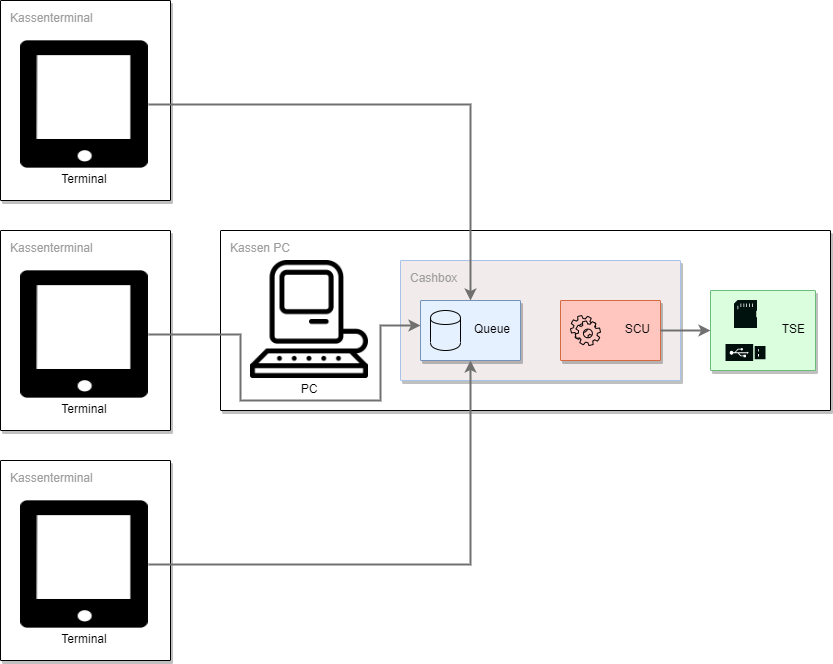
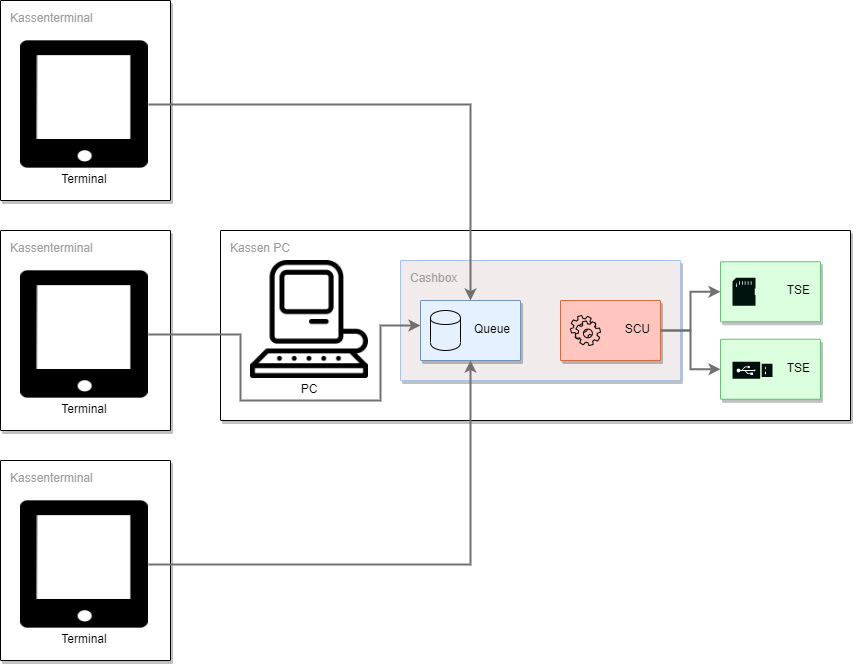
Updated rollout-scenarios

diff --git a/for-posdealers/03-sales/rollout-scenarios.md b/for-posdealers/03-sales/rollout-scenarios.md
@@ -1,42 +1,95 @@
 # Rollout Szenarien, Tipps & Tricks für DE
-Um die fiskaltrust.Middleware in Verbindung mit Kassen und TSEs zu verwenden kommen unterschiedliche Szenarien in Frage. Diese werden weiter unten erläutert, es gibt allerdings einige Grundvoraussetzungen welche auf jeden Fall gegeben sein müssen, unabhängig vom Szenario.
+Um die fiskaltrust.Middleware in Verbindung mit Kassen und TSEs zu verwenden kommen unterschiedliche Szenarien in Frage. Bei jedem dieser Szenarien handelt es sich immer um einen Standort. Diese werden weiter unten erläutert, es gibt allerdings einige Grundvoraussetzungen welche auf jeden Fall gegeben sein müssen, unabhängig vom Szenario.
 
-- Pro POS-System (Standort) muss mindestens eine [SCU](https://github.com/fiskaltrust/productdescription-de-doc/blob/master/product-service-description/compliance-as-a-service/features/SCU-Abstraktion.md) inkl. TSE zugeordnet sein.
-- Für jede Kassa die dem Finanzamt gemeldet werden muss, muss eine Queue zugeordnet sein.
+- Pro POS-System (Standort) muss mindestens eine [SCU](https://github.com/fiskaltrust/productdescription-de-doc/blob/master/product-service-description/compliance-as-a-service/features/SCU-Abstraktion.md) inkl. TSE zugeordnet sein. Die TSE kann entweder eine Hardware TSE vor Ort sein, oder eine zertifizierte Cloud TSE.
+- Jede Kasse welche dem Finanzamt gemeldet werden muss, muss eine Queue zugeordnet sein.
 
-## Hardware TSE
+#### TSE in der Cloud
+Mit einer Cloud TSE können diverse Komponenten der TSE in einem Rechenzentrum betrieben werden. Ist die TSE nicht mehr erreichbar, wechselt die fiskaltrust.Middleware in den Ausfallsmodus. Bei der Nutzung von Cloud TSEs möchten wir auf die [Fair-Use-Policy]() hinweisen.
 
-Die folgenden Szenarien erfordern jeweils mindestens eine Hardware TSE vor Ort.
+#### Hardware-TSE
+Wird eine Hardware-TSE genutzt, so muss pro Kasse nur eine angeschlossen werden. Entweder per SD-Karte oder am USB-Anschluss.
 
-### TSE pro Kasse
-Das ist das technisch einfachste Szenario, benötigt allerdings auch die maximale Anzahl an TSEs. Technisch ist diese Lösung sehr einfach zu handhaben, da die Exporte der TSE ausschließlich direkt an der Kasse erfolgen.
+## Entscheidungshilfe
+Dieser Leitfaden stellt eine Entscheidungshilfe dar, welches Szenario für welche Gegebenheiten empfohlen wird. Die Fragen werden nachfolgend genauer beschrieben.
 
+#### TSE-Export pro Kasse?
+Ja bedeutet, dass die Exporte der TSE immer ausschließlich direkt an der Kasse erfolgen. Das Exportieren und auch das Löschen der Daten auf der TSE ist hier technisch am einfachsten. Pro Kasse wird also eine TSE verwendet, das ist die maximale Anzahl.
+
+#### Terminals oder Kassen?
+"Terminals" bedeutet, die Eingabegeräte sind Tablets oder ähnliches, das heißt es ist gar nicht möglich hier eine Hardware-TSE anzuschließen bzw. die fiskaltrust.Middleware am Gerät selbst zu installieren. Bei "Kassen" handelt es sich um Geräte an denen die fiskaltrust.Middleware installiert werden kann.
+
+#### Gibt es eine Hauptkasse?
+Ja bedeutet, dass eine der Kassen als Hauptkasse genutzt wird. Die Hauptkasse muss demnach eingeschalten sein damit die anderen Kassen auf die TSE zugreifen können. Bei Nein wird die fiskaltrust.Middleware welche mit der TSE kommuniziert auf einem lokalem PC (Server) installiert.
+
+#### Hardware vor Ort?
+Nein bedeutet, es nicht möglich Hardware (mit Ausnahme der Eingabeterminals) vor Ort zu betreiben.
+
+#### Terminals meldepflichtig?
+Ja bedeutet, dass die Terminals dem Finanzamt gemeldet werden. Ist das der Fall, benötigt jedes Terminal eine eigene fiskaltrust.Queue. 
+
+#### Internetverbindung vorhanden?
+Ja beduetet, dass eine Internetverbindung vor Ort vorhanden ist.
+
+![scenario-decisions](media/scenario-decisions.png)
+
+#### Links zu den Szenarien
+
+- [Hardware-TSE pro Kasse](#Hardware-TSE-pro-Kasse)
+- [Cloud-TSE mit Hauptkasse](#Cloud-TSE-mit-Hauptkasse)
+- [Hardware-TSE mit Hauptkasse](#Hardware-TSE-mit-Hauptkasse)
+- [Cloud-TSE mit Server](#Cloud-TSE-mit-Server)
+- [Hardware-TSE mit Server](#Hardware-TSE-mit-Server)
+- [Cloud-TSE mit Terminals](#Cloud-TSE-mit-Terminals)
+- [Hardware-TSE mit Terminals](#Hardware-TSE-mit-Terminals)
+- [Cloud-TSE mit Single-Queue](#Cloud-TSE-mit-Single-Queue)
+- [Hardware-TSE mit Single-Queue](#Hardware-TSE-mit-Single-Queue)
+- [Rechenzentrum als operational environment](#Rechenzentrum-als-operational-environment)
+
+## Hardware-TSE pro Kasse
 ![tse-per-cashregister](media/tse-per-cashregister.png)
 
-### TSE pro Standort
-Es ist auch möglich, für den gesamten Standort nur eine SCU inkl. TSE zu verwenden. An den Kassen sind dennoch CashBoxen installiert, welche allerdings nur eine Queue haben und mit der SCU-CashBox inkl. TSE verbunden sind. Es gibt zwei Möglichkeiten dieses Szenario zu realisieren. Die SCU-CashBox kann auf einer Kasse betrieben werden, oder auf einem separatem Rechner. Wichtig ist, dass sich alle Komponenten am gleichen Standort befinden, im sogenannten "operational environment" (sichere Einsatzumgebung). Bei diesen Szenarien ist darauf zu achten, dass die Exporte aller Kassen zentral auf einer TSE stattfinden und es beim Löschen der Daten zu Probleme führen kann.
+## Cloud-TSE mit Hauptkasse
+An der Hauptkassa wird eine fiskaltrust.CashBox betrieben welche eine fiskaltrust.Queue und die SCU enthält und diese kommuniziert mit der Cloud-TSE. Auf den anderen Kassen sind dennoch fiskaltrust.CashBoxen installiert, welche allerdings nur eine fiskaltrust.Queue haben und mit der SCU verbunden sind. Alle Komponenten (mit Ausnahme von Teilen der Cloud-TSE) befinden sich am gleichen Standort, im sogenannten "operational environment" (sichere Einsatzumgebung).
 
-SCU auf der Kasse|SCU separat
-:--:|:--:
-![tse-on-cashregister](media/tse-on-cashregister.png)|![tse-separated](media/tse-separated.png)
+![cloud-tse-on-cashregister](media/cloud-tse-on-cashregister.png)
 
-### Kassen/Terminals ohne CashBoxen
-Werden die Kassen nur als Eingabeterminals verwendet, so ist es nicht notwendig eine CashBox an der Kasse zu installieren. Das ist auch möglich wenn es keine Kassen gibt, sondern nur Terminals (zum Beispiel Tablets) welches als Eingabeterminals fungieren. Dabei ist zu unterscheiden, ob die Terminals/Kassen dem Finanzamt gemeldet werden oder nicht. Werden sie nicht gemeldet kann alles in eine Queue laufen, ansonsten braucht man für jede Kasse/jedes Terminal eine Queue. 
+## Hardware-TSE mit Hauptkasse
+An der Hauptkassa wird eine fiskaltrust.CashBox betrieben welche eine fiskaltrust.Queue und die SCU enthält und diese kommuniziert mit der TSE. Auf den anderen Kassen sind dennoch fiskaltrust.CashBoxen installiert, welche allerdings nur eine fiskaltrust.Queue haben und mit der SCU verbunden sind. Alle Komponenten befinden sich am gleichen Standort, im sogenannten "operational environment" (sichere Einsatzumgebung). Bei diesem Szenario ist darauf zu achten, dass die Exporte aller Kassen zentral auf einer TSE stattfinden und es beim Export und dem Löschen der Daten zu Problemen führen kann.
 
-Single Queue|Queue pro Terminal
-:--:|:--:
-![terminals-single-queue](media/terminals-single-queue.png)|![terminals-multi-queue](media/terminals-multi-queue.png)
+![tse-on-cashregister](media/tse-on-cashregister.png)
 
-## Cloud TSE
+## Cloud-TSE mit Server
+Am Server wird eine fiskaltrust.CashBox betrieben welche die SCU enthält und diese kommuniziert mit der Cloud-TSE. Auf den Kassen sind dennoch fiskaltrust.CashBoxen installiert, welche allerdings nur eine fiskaltrust.Queue haben und mit der SCU verbunden sind. Alle Komponenten (mit Ausnahme von Teilen der Cloud-TSE) befinden sich am gleichen Standort, im sogenannten "operational environment" (sichere Einsatzumgebung).
 
-Die nachfolgenden Szenarien beschreiben die Verwendung einer zertifizierten Cloud TSE.
+![cloud-tse-separated](media/cloud-tse-separated.png)
 
-### TSE in der Cloud
-Mit einer Cloud-TSE können diverse Komponenten der TSE in einem Rechenzentrum betrieben werden. Es ist hier prinzipiell möglich die CashBoxen, Queues und SCUs so wie in der vorherigen Szenarien abzubilden. Ist die TSE nicht mehr erreichbar, wechselt die fiskaltrust.Middleware in den Ausfallsmodus.
+## Hardware-TSE mit Server
+Am Server wird eine fiskaltrust.CashBox betrieben welche die SCU enthält und diese kommuniziert mit der TSE. Auf den anderen Kassen sind dennoch fiskaltrust.CashBoxen installiert, welche allerdings nur eine fiskaltrust.Queue haben und mit der SCU verbunden sind. Alle Komponenten befinden sich am gleichen Standort, im sogenannten "operational environment" (sichere Einsatzumgebung). Bei diesem Szenario ist darauf zu achten, dass die Exporte aller Kassen zentral auf einer TSE stattfinden und es beim Export und dem Löschen der Daten zu Problemen führen kann.
 
-![cloud-tse](media/cloud-tse.png)
+![tse-separated](media/tse-separated.png)
 
-### Komplettlösung in der Cloud
+## Cloud-TSE mit Terminals
+Werden die Kassen nur als Eingabeterminals verwendet, so ist es nicht notwendig eine fiskaltrust.CashBox an der Kasse zu installieren. Das ist auch möglich wenn es keine Kassen gibt, sondern nur Terminals (zum Beispiel Tablets) welches als Eingabeterminals fungieren. Da die Terminals/Kassen dem Finanzamt gemeldet werden benötigt jede Kasse/jedes Terminal eine fiskaltrust.Queue. 
+
+![terminals-multi-queue-cloud](media/terminals-multi-queue-cloud.png)
+
+## Hardware-TSE mit Terminals
+Werden die Kassen nur als Eingabeterminals verwendet, so ist es nicht notwendig eine fiskaltrust.CashBox an der Kasse zu installieren. Das ist auch möglich wenn es keine Kassen gibt, sondern nur Terminals (zum Beispiel Tablets) welches als Eingabeterminals fungieren. Da die Terminals/Kassen dem Finanzamt gemeldet werden benötigt jede Kasse/jedes Terminal eine fiskaltrust.Queue.
+
+![terminals-multi-queue](media/terminals-multi-queue.png)
+
+## Cloud-TSE mit Single-Queue
+Werden die Kassen nur als Eingabeterminals verwendet, so ist es nicht notwendig eine fiskaltrust.CashBox an der Kasse zu installieren. Das ist auch möglich wenn es keine Kassen gibt, sondern nur Terminals (zum Beispiel Tablets) welches als Eingabeterminals fungieren. Da die Terminals/Kassen dem Finanzamt nicht gemeldet werden kann alles in eine fiskaltrust.Queue laufen.
+
+![terminals-single-queue-cloud](media/terminals-single-queue-cloud.png)
+
+## Hardware-TSE mit Single-Queue
+Werden die Kassen nur als Eingabeterminals verwendet, so ist es nicht notwendig eine fiskaltrust.CashBox an der Kasse zu installieren. Das ist auch möglich wenn es keine Kassen gibt, sondern nur Terminals (zum Beispiel Tablets) welches als Eingabeterminals fungieren. Da die Terminals/Kassen dem Finanzamt nicht gemeldet werden kann alles in eine fiskaltrust.Queue laufen.
+
+![terminals-single-queue.png](media/terminals-single-queue.png)
+
+## Rechenzentrum als operational environment
 Falls die Kasse in einem Rechenzentrum betrieben wird und die Eingabestationen ohne (Internet-)Verbindung zu diesem nicht funktionsfähig sind, kann das Rechenzentrum unter bestimmten Voraussetzungen als "operational environment" angenommen werden. Die fiskaltrust.Middleware kann in diesem Fall vollständig in diesem Rechenzentrum betrieben werden. In diesem Szenario verbinden sich die Terminals (Eingabestationen) zur fiskaltrust.Middleware im Rechenzentrum.
 Im Falle eines Ausfalls der (Internet-)Verbindung ist es allerdings so, dass keine SignatureItems auf die Belege gedruckt werden können. Bei Interesse zur Lösung, bei der fiskaltrust den Betrieb im Rechenzentrum des KassenBetreibers installiert und wartet, gibt er hier mehr Informationen: [info@fiskaltrust.de](mailto:info@fiskaltrust.de?subject=Informationen%20zu%20Bring-your-own-datacenter).
 
